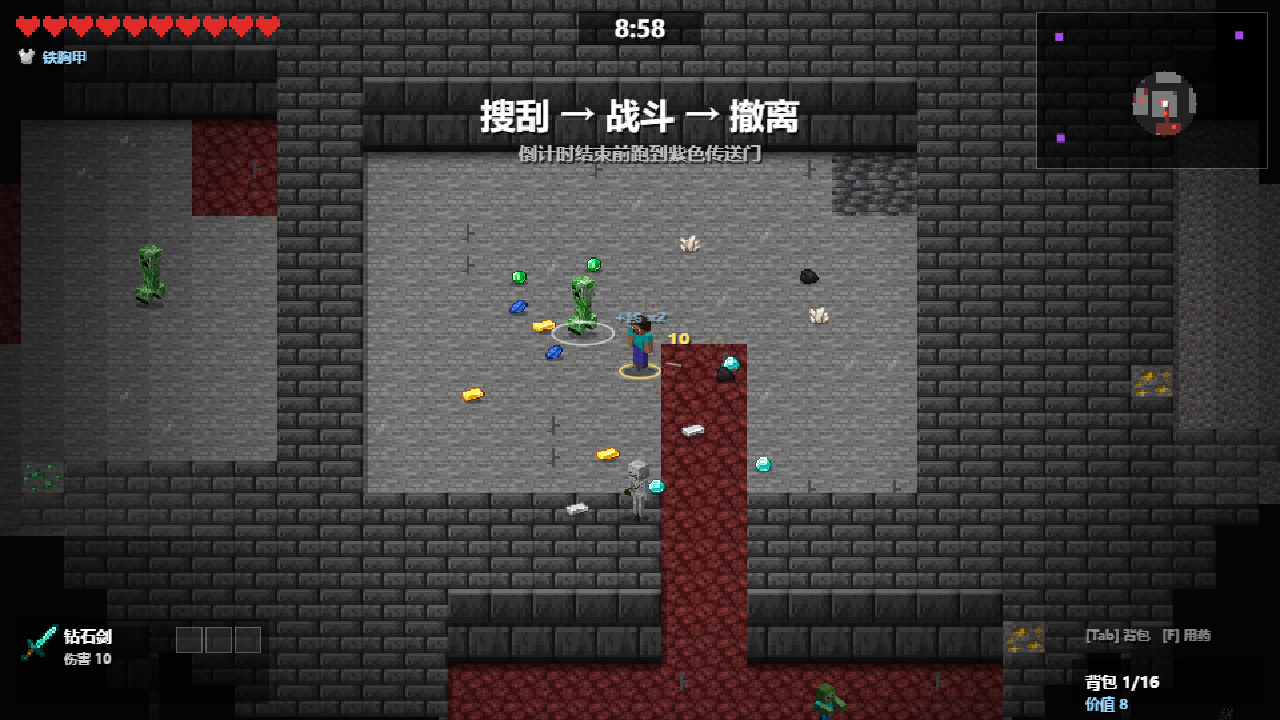
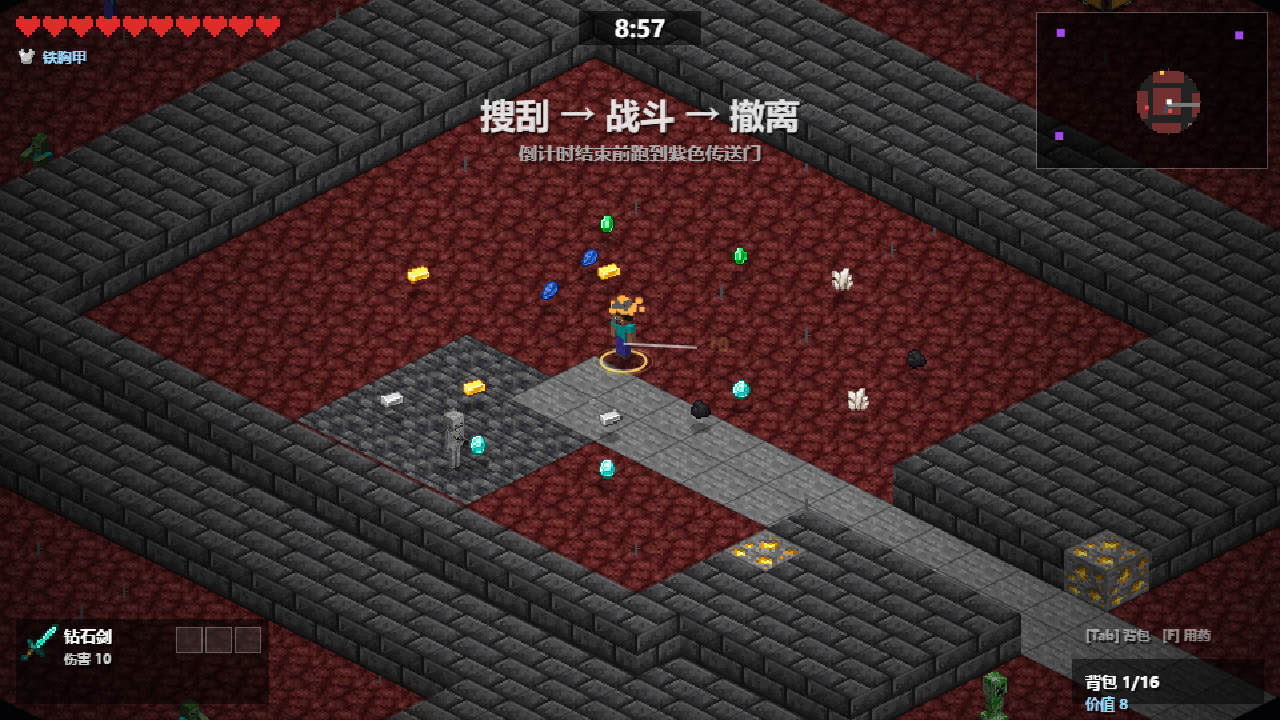
feat: 等距视角收尾（背向压暗调淡、文档、截图）

diff --git a/js/render2.js b/js/render2.js
@@ -216,7 +216,7 @@
     const dx = p.x - e.x, dy = p.y - e.y;
     const flip = dx < 0 ? -1 : 1;
     const facingAway = dy < -6;
-    const dim = facingAway ? 0.30 : 0;
+    const dim = facingAway ? 0.12 : 0;
 
     // 动画：走路上下颠 + 左右轻微倾斜 + 攻击/受伤挤压
     const walk = e.animWalk || 0;
@@ -292,7 +292,7 @@
     const ax = Math.cos(p.angle), ay = Math.sin(p.angle);
     const flip = ax < 0 ? -1 : 1;
     const facingAway = ay < -0.35;
-    const dim = facingAway ? 0.28 : 0;
+    const dim = facingAway ? 0.10 : 0;
 
     const moveT = p.walked || 0;
     const bob = Math.sin(moveT * 0.12) * 2.2;

diff --git a/tools/cc.py b/tools/cc.py
@@ -1,0 +1,3 @@
+from PIL import Image
+im = Image.open('tools/iso3_start.png')
+im.crop((480,240,820,520)).resize((680,560), Image.NEAREST).save('tools/iso3_crop.png')

diff --git a/README.md b/README.md
@@ -71,9 +71,9 @@
 | 生物头像 8 张 | `EntitySprite_*.png`（16×16） | 备用 2D 素材（`?style=2d` 时拼 Q 版小人） |
 | 生物渲染图 9 张 | `Steve / Zombie / ... / Wither` | 默认使用，官方 3D 渲染，等比缩放到 30~92px |
 
-**角色用官方原版素材**：玩家和 8 种怪物都是 Minecraft Wiki 的官方 3D 渲染图（`Steve / Zombie / Skeleton / Creeper / Spider / Slime / Enderman / Blaze / Wither`），按各自比例缩放到 30~92px 高，竖直方向单独反压缩，所以地面是斜的、人是立的；脚下有接触阴影，玩家额外有金色光环。想看 2D 头像小人可以加 `?style=2d`。
+**视角是 45° 菱形等距（isometric）**：世界坐标按 `sx = x - y, sy = (x + y) / 2` 投影，地砖是 64×32 的菱形，墙/木箱/熔炉都是**立体方块**（顶面 + 左下/右下两个侧面，侧面自动压暗），角色保持直立并在 `x + y` 深度轴上排序，人走到墙后被挡住、走到墙前挡住墙。
 
-**视角锁定为 2.5D 斜俯视**：整张地图按 `KY = 0.75` 纵向压缩，每个墙格画成「上表面 + 竖直正面（56px）」的立体方块，木箱/熔炉/工作台也是有厚度的小方块，传送门立在地上。想调：`js/engine.js` 里 `Cam.KY`（`0.6` 更斜、`1` 纯俯视）。
+**角色用官方原版素材 + 动画**：玩家和 8 种怪物都是 Minecraft Wiki 的官方 3D 渲染图，带走路上下颠动、身体轻微摇摆、攻击/受击挤压；**朝向影响长相**——左右朝向会水平翻转，背对镜头（往上走）会压暗，朝向镜头是正常亮色。想看 2D 头像小人可以加 `?style=2d`。
 
 - 缺图 / 断网时会**自动回退**到 `js/pixel.js` 里的程序化像素图，不会白屏。
 - 想换别的皮肤包：把同名 PNG 丢进 `assets/tex/`（16×16 物品与方块、16×16 生物头像）即可。

diff --git a/GAME_DESIGN.md b/GAME_DESIGN.md
@@ -34,7 +34,7 @@
 
 | 项 | 方案 |
 |---|---|
-| 视角 | **2.5D 斜俯视**：地面纵向压缩 0.88 + 每格墙画成「顶面 + 正面」，镜头轻微俯角，能看出墙体高度与角色站立感；摄像机平滑跟随，960×540 内部分辨率，CSS 整数拉伸保持像素锐利（`?style=3d` 可切回旧的 3D 渲染图角色） |
+| 视角 | **45° 菱形等距（isometric）**：`sx = x - y`、`sy = (x + y) / 2`；地砖 64×32 菱形，方块立起来（顶面 + 两个侧面），角色直立并按 `x + y` 深度排序，摄像机固定俯角不做自由旋转（`js/render2.js`） |
 | 瓦片 | 32px，视野约 30×20 格 |
 | 画面 | 像素风；方块地面贴图、砖墙顶面+正面、贴墙阴影、粒子爆块 |
 | 角色 | **2D 像素小人**：Q 版身体 + 官方 16×16 生物头像（僵尸/骷髅/苦力怕/蜘蛛/史莱姆/末影人/烈焰人/凋灵），玩家用程序化 Steve 头像 |
